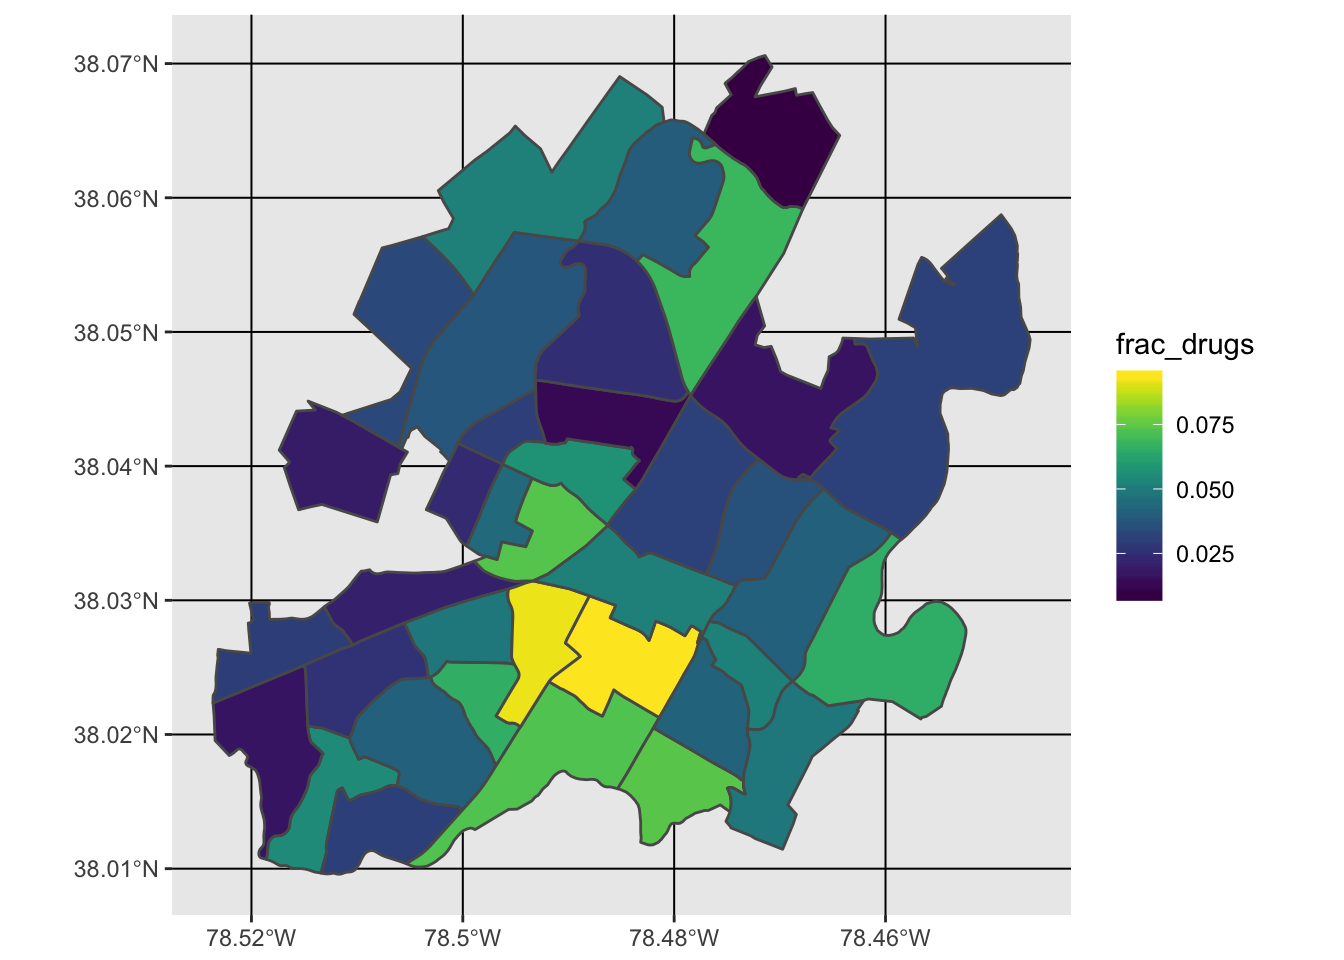
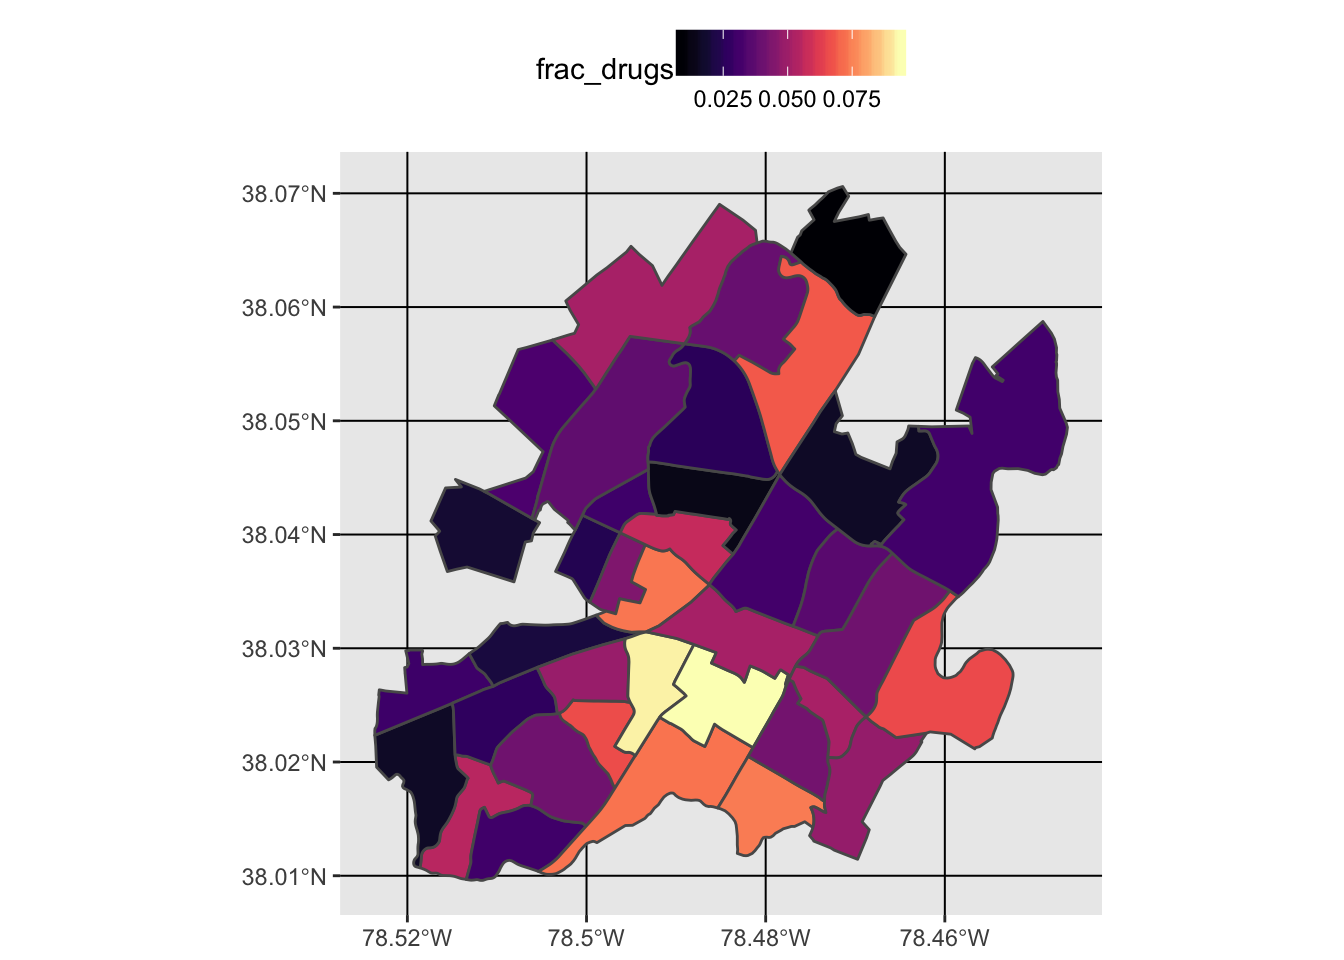
final draft of spatial stats

diff --git a/content/post/2018-01-28-spatial-testing.html b/content/post/2018-01-28-spatial-testing.html
@@ -2,6 +2,7 @@
 title: Spatial Testing
 author: Nate Day
 date: '2018-01-28'
+description: Using spatial statistics to investigate the rate of drug crime in Cville's census blocks.
 slug: spatial-testing
 categories:
   - Cville Open Data
@@ -19,20 +20,47 @@ tags:
 </div>
 <div id="globals" class="section level2">
 <h2>Globals</h2>
-<pre class="r"><code># the package load out
-library(geojsonio) # data read in
-
-library(sf) # last post
-library(viridis) # ^^^
-
-library(spatstat) # new
-
-library(magrittr)
-library(tidyverse)
-
-# some custom functions to make my fingers happy
+<pre class="r"><code>library(geojsonio) # last two posts</code></pre>
+<pre><code>## 
+## Attaching package: &#39;geojsonio&#39;</code></pre>
+<pre><code>## The following object is masked from &#39;package:base&#39;:
+## 
+##     pretty</code></pre>
+<pre class="r"><code>library(sf) # last post</code></pre>
+<pre><code>## Warning: package &#39;sf&#39; was built under R version 3.4.2</code></pre>
+<pre><code>## Linking to GEOS 3.6.1, GDAL 2.1.3, proj.4 4.9.3</code></pre>
+<pre class="r"><code>library(viridis) # last post</code></pre>
+<pre><code>## Loading required package: viridisLite</code></pre>
+<pre class="r"><code># library(spatstat) # new
+library(spdep) # new</code></pre>
+<pre><code>## Warning: package &#39;spdep&#39; was built under R version 3.4.3</code></pre>
+<pre><code>## Loading required package: sp</code></pre>
+<pre><code>## Loading required package: Matrix</code></pre>
+<pre><code>## Loading required package: spData</code></pre>
+<pre><code>## Warning: package &#39;spData&#39; was built under R version 3.4.2</code></pre>
+<pre><code>## To access larger datasets in this package, install the spDataLarge
+## package with: `install.packages(&#39;spDataLarge&#39;)`</code></pre>
+<pre class="r"><code>library(tidycensus) # new</code></pre>
+<pre><code>## Warning: package &#39;tidycensus&#39; was built under R version 3.4.2</code></pre>
+<pre class="r"><code>library(magrittr) # %&lt;&gt;% life
+library(tidyverse)</code></pre>
+<pre><code>## Warning: package &#39;tidyverse&#39; was built under R version 3.4.2</code></pre>
+<pre><code>## ── Attaching packages ────────────────────────────────────────────────────────── tidyverse 1.2.1 ──</code></pre>
+<pre><code>## ✔ ggplot2 2.2.1.9000     ✔ purrr   0.2.4     
+## ✔ tibble  1.3.4          ✔ dplyr   0.7.4.9000
+## ✔ tidyr   0.7.2          ✔ stringr 1.2.0     
+## ✔ readr   1.1.1          ✔ forcats 0.2.0</code></pre>
+<pre><code>## Warning: package &#39;tidyr&#39; was built under R version 3.4.2</code></pre>
+<pre><code>## Warning: package &#39;purrr&#39; was built under R version 3.4.2</code></pre>
+<pre><code>## ── Conflicts ───────────────────────────────────────────────────────────── tidyverse_conflicts() ──
+## ✖ tidyr::expand()    masks Matrix::expand()
+## ✖ tidyr::extract()   masks magrittr::extract()
+## ✖ dplyr::filter()    masks stats::filter()
+## ✖ dplyr::lag()       masks stats::lag()
+## ✖ purrr::set_names() masks magrittr::set_names()</code></pre>
+<pre class="r"><code># some custom functions to make my fingers happy
 theme_set(theme_grey() + theme(legend.position = &quot;top&quot;))
-scale_fill_continuous &lt;- function(...) { viridis::scale_fill_viridis(...) }</code></pre>
+scale_fill_continuous &lt;- function(...) { viridis::scale_fill_viridis(option = &quot;A&quot;, ...) }</code></pre>
 </div>
 <div id="data-input" class="section level2">
 <h2>Data Input</h2>
@@ -77,10 +105,10 @@ census %&lt;&gt;% inner_join(crime) # merge into census</code></pre>
 <h3>Moran’s I</h3>
 <p>The first test statistic to learn for spatial data is <a href="https://en.wikipedia.org/wiki/Moran%27s_I">Moran’s I</a>. This is used to measure spatial autocorrelation, in other words are adjacent areas likely to have similar signals. The test statstic I ranges from -1 (pure dispersion) to 1 (pure clustering) with a value of 0 being random. Morans’ I is implemented in the R <code>library(spdep)</code> and I will focus on the function <code>moran.mc()</code>, which performs a Monte Carlo simulation under the hood to establish rank.</p>
 <p>First we have to convert our <code>sf</code> objects into a <code>SpatialPolygons</code> objects, then we can use a couple other functions from <code>library(spdep)</code> to construct a weighted list of neigbors which is required to run <code>moran.mc()</code>.</p>
-<pre class="r"><code>census_sp &lt;- as(census, &quot;Spatial&quot;) # convert spatial object type
+<pre class="r"><code>census_sp &lt;- as(census, &quot;Spatial&quot;) # convert to spatial object type
 
-census_wnb &lt;- spdep::poly2nb(census_sp) %&gt;% # convert set of polygons to neighbor list
-     spdep::nb2listw() # weight that list
+census_wnb &lt;- spdep::poly2nb(census_sp) %&gt;% # convert polygons to neighbor list
+     spdep::nb2listw() # weight the list by 
 
 spdep::moran.mc(census_sp$frac_drugs, census_wnb, nsim = 999) # 999+1 simulations</code></pre>
 <pre><code>## 
@@ -94,5 +122,140 @@ spdep::moran.mc(census_sp$frac_drugs, census_wnb, nsim = 999) # 999+1 simulation
 ## alternative hypothesis: greater</code></pre>
 <pre class="r"><code>ggplot(census) + geom_sf(aes(fill = frac_drugs))</code></pre>
 <p><img src="/post/2018-01-28-spatial-testing_files/figure-html/unnamed-chunk-2-1.png" width="672" /></p>
+<pre class="r"><code>sp::spplot(census_sp, zcol = &quot;frac_drugs&quot;) # perhaps easier/faster???</code></pre>
+<p><img src="/post/2018-01-28-spatial-testing_files/figure-html/unnamed-chunk-2-2.png" width="672" /></p>
+<p>Either way you plot it, its easy to see that the SW corner of the city has a larger fraction of drug crime than either of the other three. But now we can say with a statistic greater than 0, that we are observing a clustering pattern in the fraction of drug crime. A statistic value of 0 would indicate a true random pattern and one under 0, a dispearsal pattern.</p>
+</div>
+</div>
+<div id="more-data" class="section level2">
+<h2>MORE DATA!!!</h2>
+<p>If we want to investigate more, we need more data. The stock census data has some housing and demographic data that might be useful, but we want more. Realistically we’d like to scan a bunch of indicators, but here we will just grab median income and age by Census block. This data is from the <a href="https://www.census.gov/programs-surveys/acs/">American Community Survey</a> is readily available via good guy <a href="https://walkerke.github.io/2017/05/tidycensus-every-tract/">Kyle Walk and his bomb package tidycensus package</a>. So go ahead and put those parsing pants away.</p>
+<p>All you really have to do is <a href="https://api.census.gov/data/key_signup.html">register an API key here</a> wait a couple of minutes, check your email and from there it’s all slick functions from there.</p>
+<pre class="r"><code># census_api_key(&quot;your_key&quot;)
+
+cvl &lt;- get_acs(geography = &quot;block group&quot;, county = &quot;Charlottesville&quot;, state = &quot;VA&quot;,
+               variables = c(&quot;B19013_001&quot;, &quot;B01002_001&quot;) ) # income &amp; age
+
+# the rest is cleaning...
+decode &lt;- c(&quot;income&quot;, &quot;age&quot;) %&gt;% set_names(c(&quot;B19013_001&quot;, &quot;B01002_001&quot;)) # named vecs ftw
+cvl$variable %&lt;&gt;% decode[.] # recip pipe is so nice
+
+cvl %&lt;&gt;% select(GEOID, variable, estimate) %&gt;% spread(variable, estimate) # spread to tidy
+
+census %&lt;&gt;% full_join(rename(cvl, blockgroup = GEOID)) # two block have missing income values</code></pre>
+<pre><code>## Joining, by = &quot;blockgroup&quot;</code></pre>
+<pre><code>## Warning: Column `blockgroup` joining factor and character vector, coercing
+## into character vector</code></pre>
+</div>
+<div id="explore-that" class="section level2">
+<h2>Explore that</h2>
+<p>Great now we have a couple of extra variables to work with. But before we just blindly throw them into a model, let’s look at all of the relationships quickly via <code>GGally::ggpairs()</code>. Before we do that I want to build variables for the proportion of vacant homes and the population that identifies as black.</p>
+<pre class="r"><code>census %&lt;&gt;% mutate(frac_vacant = hu_vacant / (hu_occupied + hu_vacant),
+                   frac_black = black / pop)
+
+col_index &lt;- match(c(&quot;frac_drugs&quot;, &quot;frac_vacant&quot;, &quot;age&quot;, &quot;income&quot;, &quot;frac_black&quot;), names(census))
+
+GGally::ggpairs(census, col_index)</code></pre>
+<pre><code>## Warning in (function (data, mapping, alignPercent = 0.6, method =
+## &quot;pearson&quot;, : Removed 2 rows containing missing values</code></pre>
+<pre><code>## Warning in (function (data, mapping, alignPercent = 0.6, method =
+## &quot;pearson&quot;, : Removed 2 rows containing missing values</code></pre>
+<pre><code>## Warning in (function (data, mapping, alignPercent = 0.6, method =
+## &quot;pearson&quot;, : Removed 2 rows containing missing values</code></pre>
+<pre><code>## Warning: Removed 2 rows containing missing values (geom_point).
+
+## Warning: Removed 2 rows containing missing values (geom_point).
+
+## Warning: Removed 2 rows containing missing values (geom_point).</code></pre>
+<pre><code>## Warning: Removed 2 rows containing non-finite values (stat_density).</code></pre>
+<pre><code>## Warning in (function (data, mapping, alignPercent = 0.6, method =
+## &quot;pearson&quot;, : Removed 2 rows containing missing values</code></pre>
+<pre><code>## Warning: Removed 2 rows containing missing values (geom_point).</code></pre>
+<p><img src="/post/2018-01-28-spatial-testing_files/figure-html/unnamed-chunk-3-1.png" width="672" /></p>
+<p>We can see that the fraction of drug crime is positively related to the fraction of the comminity that is black, the fraction of the homes that are vacant and negatively related to income. This is not suprising since <a href="http://www.drugpolicy.org/issues/race-and-drug-war">America has well documented history of using drug laws to target minorities</a>, especially black communities.</p>
+</div>
+<div id="model-time" class="section level1">
+<h1>Model time</h1>
+<p>Since our respons variable is a the proportion of drug crime to total crime and is bounded by 0 and 1, we are best off using a quasi-binomial distribution. If we were using the total count of drug crimes as our response, we’d want to use a Poisson or quasipoisson distribution instead. R’s flexible <code>glm()</code> makes either of these scenarios simple to code with the <code>family =</code> argument.</p>
+<pre class="r"><code>glm(frac_drugs ~ income + age + frac_black + frac_vacant, data = census,
+           family = quasibinomial(link = &quot;logit&quot;)) %&gt;% summary()</code></pre>
+<pre><code>## 
+## Call:
+## glm(formula = frac_drugs ~ income + age + frac_black + frac_vacant, 
+##     family = quasibinomial(link = &quot;logit&quot;), data = census)
+## 
+## Deviance Residuals: 
+##       Min         1Q     Median         3Q        Max  
+## -0.157940  -0.060269  -0.000251   0.041697   0.166152  
+## 
+## Coefficients:
+##               Estimate Std. Error t value Pr(&gt;|t|)    
+## (Intercept) -3.509e+00  3.344e-01 -10.493 1.47e-11 ***
+## income      -2.516e-06  3.931e-06  -0.640 0.526968    
+## age          6.283e-03  1.092e-02   0.575 0.569452    
+## frac_black   1.567e+00  3.982e-01   3.936 0.000455 ***
+## frac_vacant  1.012e-01  2.487e+00   0.041 0.967799    
+## ---
+## Signif. codes:  0 &#39;***&#39; 0.001 &#39;**&#39; 0.01 &#39;*&#39; 0.05 &#39;.&#39; 0.1 &#39; &#39; 1
+## 
+## (Dispersion parameter for quasibinomial family taken to be 0.007009726)
+## 
+##     Null deviance: 0.37394  on 34  degrees of freedom
+## Residual deviance: 0.21268  on 30  degrees of freedom
+##   (2 observations deleted due to missingness)
+## AIC: NA
+## 
+## Number of Fisher Scoring iterations: 6</code></pre>
+<pre class="r"><code># refit with just frac_black to get back our DFs
+mod &lt;- glm(frac_drugs ~ frac_black, data = census,
+           family = quasibinomial(link = &quot;logit&quot;))
+summary(mod)</code></pre>
+<pre><code>## 
+## Call:
+## glm(formula = frac_drugs ~ frac_black, family = quasibinomial(link = &quot;logit&quot;), 
+##     data = census)
+## 
+## Deviance Residuals: 
+##      Min        1Q    Median        3Q       Max  
+## -0.16185  -0.05374  -0.00943   0.03796   0.17934  
+## 
+## Coefficients:
+##             Estimate Std. Error t value Pr(&gt;|t|)    
+## (Intercept)  -3.4598     0.1022 -33.859  &lt; 2e-16 ***
+## frac_black    1.6812     0.3165   5.312 6.24e-06 ***
+## ---
+## Signif. codes:  0 &#39;***&#39; 0.001 &#39;**&#39; 0.01 &#39;*&#39; 0.05 &#39;.&#39; 0.1 &#39; &#39; 1
+## 
+## (Dispersion parameter for quasibinomial family taken to be 0.006540553)
+## 
+##     Null deviance: 0.39617  on 36  degrees of freedom
+## Residual deviance: 0.22748  on 35  degrees of freedom
+## AIC: NA
+## 
+## Number of Fisher Scoring iterations: 6</code></pre>
+<div id="interpreting-the-predictors" class="section level3">
+<h3>Interpreting the predictors</h3>
+<p>Having <code>frac_black</code> as the only signifcant predictor in our models, does not mean that black people are more likely to commit drug crimes. In fact according to the US Health Department’s national drug use survey: <a href="https://www.samhsa.gov/data/sites/default/files/NSDUHresultsPDFWHTML2013/Web/NSDUHresults2013.pdf">Whites, Blacks and Hispanics all use drugs at similar levels</a> and Asians use signicantly less. Politifact dug into the arrest rates for different races and estimated <a href="http://www.politifact.com/punditfact/statements/2016/jul/13/van-jones/van-jones-claim-drug-use-imprisonment-rates-blacks/">Blacks almost 5.8x more likely to be impresioned for drug crime than Whites</a>.</p>
+<p>Stats like this are complicated and don’t have simple fixes, but they do deserve public attention. Seeing these trends happening here in Charlottesville, is the first step toward correcting them.</p>
+</div>
+<div id="check-out" class="section level2">
+<h2>Check out</h2>
+<p>The final check on our model is to test the residuals for auto-correlation. If we see a spatial pattern in the residuals, it indicates we may be missing a critical explanatory variable.</p>
+<pre class="r"><code>census$resid &lt;- resid(mod)
+ggplot(census) + geom_sf(aes(fill = resid))</code></pre>
+<p><img src="/post/2018-01-28-spatial-testing_files/figure-html/unnamed-chunk-5-1.png" width="672" /></p>
+<pre class="r"><code>moran.mc(resid(mod), listw = census_wnb, nsim = 99)</code></pre>
+<pre><code>## 
+##  Monte-Carlo simulation of Moran I
+## 
+## data:  resid(mod) 
+## weights: census_wnb  
+## number of simulations + 1: 100 
+## 
+## statistic = -0.064084, observed rank = 38, p-value = 0.62
+## alternative hypothesis: greater</code></pre>
+<p>We see a small negative test statistic and we fail to reject the null hypothesis that the residuals are random spatially.</p>
+<p>When I first started playing around with the City’s Data Portal back when it launched in August 2017, I wasn’t sure what I would find, but I wanted to focus my #rstats skills on local problems Since I got interested in the crime data, I’ve taken two spatial data courses on Data Camp: <a href="https://www.datacamp.com/courses/spatial-statistics-in-r">Spatial Statistics in R</a> with Barry Rowlingson and <a href="https://www.datacamp.com/courses/spatial-analysis-in-r-with-sf-and-raster">Spatial Analysis in R with sf and raster</a> with Zev Ross, which were great and I highly reccommend.</p>
+<p>If you have any questions, comments or ideas for future projects, please drop me an email. I’m really looking forward to hosting the <a href="https://www.smartcville.com/events/10/open-data-deep-dive-crime-data-drug-offenses/">Smart Cville Open Data Deep Dive next week</a>, so if you want to learn and play with these tool come out, code and meet some cool civic nerds in the community.</p>
 </div>
 </div>
